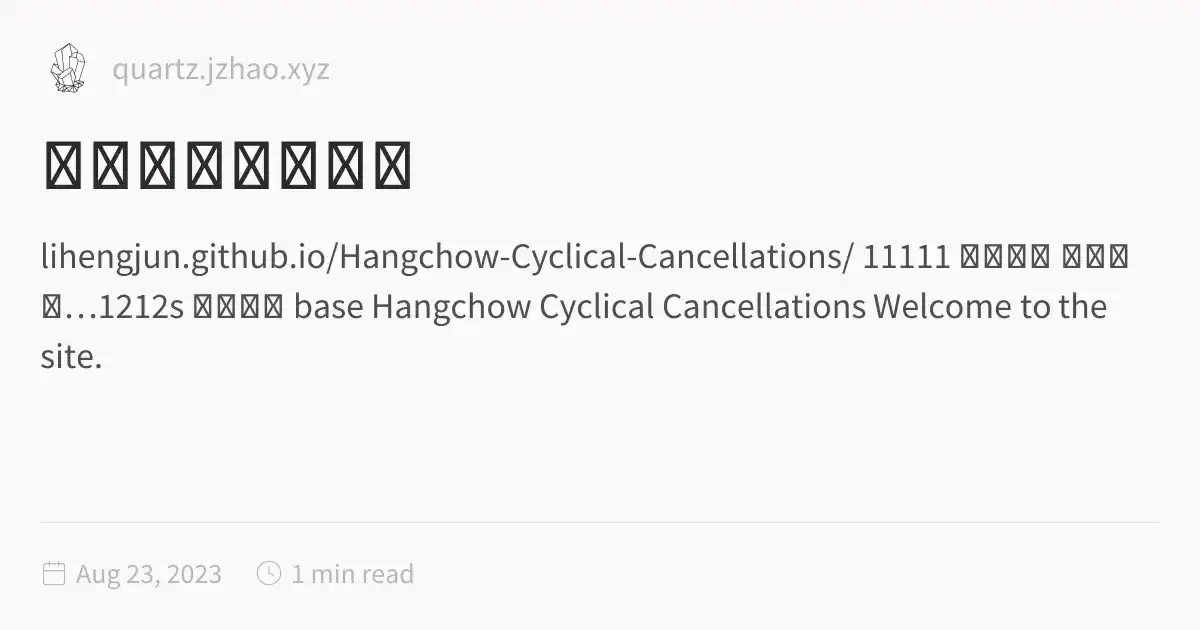
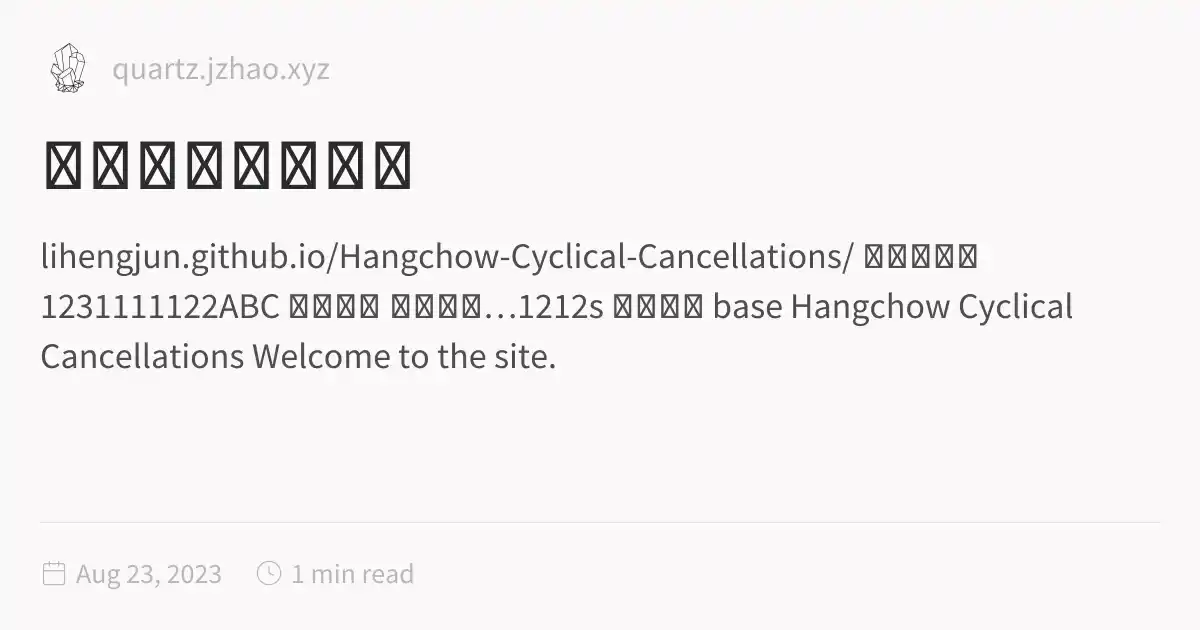
deploy: lihengjun/my-obsidian-vault@a4e582b4bd8cb34094732ee9f44acf03a8084b89

Changed region(s): [[0.0308, 0.4524, 0.925, 0.5127], [0.0308, 0.5429, 0.4625, 0.6032], [0.7092, 0.3619, 0.9558, 0.4222]]

diff --git a/news/index.html b/news/index.html
@@ -116,6 +116,6 @@ pre:hover > .expand-button {
   padding: 0 12px;
   font-size: 14px;
 }
[2 lines of base64/hex data omitted]
 </script><script type="module">function f(i,e){if(!i)return;function r(o){o.target===this&&(o.preventDefault(),o.stopPropagation(),e())}function t(o){o.key.startsWith("Esc")&&(o.preventDefault(),e())}i?.addEventListener("click",r),window.addCleanup(()=>i?.removeEventListener("click",r)),document.addEventListener("keydown",t),window.addCleanup(()=>document.removeEventListener("keydown",t))}function y(i){for(;i.firstChild;)i.removeChild(i.firstChild)}var h=class{constructor(e,r){this.container=e;this.content=r;this.setupEventListeners(),this.setupNavigationControls(),this.resetTransform()}isDragging=!1;startPan={x:0,y:0};currentPan={x:0,y:0};scale=1;MIN_SCALE=.5;MAX_SCALE=3;cleanups=[];setupEventListeners(){let e=this.onMouseDown.bind(this),r=this.onMouseMove.bind(this),t=this.onMouseUp.bind(this),o=this.resetTransform.bind(this);this.container.addEventListener("mousedown",e),document.addEventListener("mousemove",r),document.addEventListener("mouseup",t),window.addEventListener("resize",o),this.cleanups.push(()=>this.container.removeEventListener("mousedown",e),()=>document.removeEventListener("mousemove",r),()=>document.removeEventListener("mouseup",t),()=>window.removeEventListener("resize",o))}cleanup(){for(let e of this.cleanups)e()}setupNavigationControls(){let e=document.createElement("div");e.className="mermaid-controls";let r=this.createButton("+",()=>this.zoom(.1)),t=this.createButton("-",()=>this.zoom(-.1)),o=this.createButton("Reset",()=>this.resetTransform());e.appendChild(t),e.appendChild(o),e.appendChild(r),this.container.appendChild(e)}createButton(e,r){let t=document.createElement("button");return t.textContent=e,t.className="mermaid-control-button",t.addEventListener("click",r),window.addCleanup(()=>t.removeEventListener("click",r)),t}onMouseDown(e){e.button===0&&(this.isDragging=!0,this.startPan={x:e.clientX-this.currentPan.x,y:e.clientY-this.currentPan.y},this.container.style.cursor="grabbing")}onMouseMove(e){this.isDragging&&(e.preventDefault(),this.currentPan={x:e.clientX-this.startPan.x,y:e.clientY-this.startPan.y},this.updateTransform())}onMouseUp(){this.isDragging=!1,this.container.style.cursor="grab"}zoom(e){let r=Math.min(Math.max(this.scale+e,this.MIN_SCALE),this.MAX_SCALE),t=this.content.getBoundingClientRect(),o=t.width/2,n=t.height/2,c=r-this.scale;this.currentPan.x-=o*c,this.currentPan.y-=n*c,this.scale=r,this.updateTransform()}updateTransform(){this.content.style.transform=`translate(${this.currentPan.x}px, ${this.currentPan.y}px) scale(${this.scale})`}resetTransform(){this.scale=1;let e=this.content.querySelector("svg");this.currentPan={x:e.getBoundingClientRect().width/2,y:e.getBoundingClientRect().height/2},this.updateTransform()}},C=["--secondary","--tertiary","--gray","--light","--lightgray","--highlight","--dark","--darkgray","--codeFont"],E;document.addEventListener("nav",async()=>{let e=document.querySelector(".center").querySelectorAll("code.mermaid");if(e.length===0)return;E||=await import("https://cdnjs.cloudflare.com/ajax/libs/mermaid/11.4.0/mermaid.esm.min.mjs");let r=E.default,t=new WeakMap;for(let n of e)t.set(n,n.innerText);async function o(){for(let s of e){s.removeAttribute("data-processed");let a=t.get(s);a&&(s.innerHTML=a)}let n=C.reduce((s,a)=>(s[a]=window.getComputedStyle(document.documentElement).getPropertyValue(a),s),{}),c=document.documentElement.getAttribute("saved-theme")==="dark";r.initialize({startOnLoad:!1,securityLevel:"loose",theme:c?"dark":"base",themeVariables:{fontFamily:n["--codeFont"],primaryColor:n["--light"],primaryTextColor:n["--darkgray"],primaryBorderColor:n["--tertiary"],lineColor:n["--darkgray"],secondaryColor:n["--secondary"],tertiaryColor:n["--tertiary"],clusterBkg:n["--light"],edgeLabelBackground:n["--highlight"]}}),await r.run({nodes:e})}await o(),document.addEventListener("themechange",o),window.addCleanup(()=>document.removeEventListener("themechange",o));for(let n=0;n<e.length;n++){let v=function(){let g=l.querySelector("#mermaid-space"),m=l.querySelector(".mermaid-content");if(!m)return;y(m);let w=c.querySelector("svg").cloneNode(!0);m.appendChild(w),l.classList.add("active"),g.style.cursor="grab",u=new h(g,m)},M=function(){l.classList.remove("active"),u?.cleanup(),u=null},c=e[n],s=c.parentElement,a=s.querySelector(".clipboard-button"),d=s.querySelector(".expand-button"),p=window.getComputedStyle(a),L=a.offsetWidth+parseFloat(p.marginLeft||"0")+parseFloat(p.marginRight||"0");d.style.right=`calc(${L}px + 0.3rem)`,s.prepend(d);let l=s.querySelector("#mermaid-container");if(!l)return;let u=null;d.addEventListener("click",v),f(l,M),window.addCleanup(()=>{u?.cleanup(),d.removeEventListener("click",v)})}});
 </script><script src="https://cdn.jsdelivr.net/npm/katex@0.16.11/dist/contrib/copy-tex.min.js" type="application/javascript"></script><script src="../postscript.js" type="module"></script></html>

diff --git a/other.html b/other.html
@@ -116,7 +116,7 @@ pre:hover > .expand-button {
   padding: 0 12px;
   font-size: 14px;
 }
[2 lines of base64/hex data omitted]
                 s-3.542,0.634-4.898,1.688l-7.669-7.669C16.785,10.424,17,9.74,17,9c0-2.206-1.794-4-4-4S9,6.794,9,9s1.794,4,4,4
                 c0.74,0,1.424-0.215,2.019-0.567l7.669,7.669C21.634,21.458,21,23.154,21,25s0.634,3.542,1.688,4.897L10.024,42.562
                 C8.958,41.595,7.549,41,6,41c-3.309,0-6,2.691-6,6s2.691,6,6,6s6-2.691,6-6c0-1.035-0.263-2.009-0.726-2.86l12.829-12.829

diff --git a/index.html b/index.html
@@ -1,5 +1,5 @@
 <!DOCTYPE html>
-<html lang="en"><head><title>杭州城幹支戳蓃集</title><meta charset="utf-8"/><link rel="preconnect" href="https://fonts.googleapis.com"/><link rel="preconnect" href="https://fonts.gstatic.com"/><link rel="stylesheet" href="https://fonts.googleapis.com/css2?family=Schibsted Grotesk:wght@400;700&amp;family=Source Sans Pro:ital,wght@0,400;0,600;1,400;1,600&amp;family=IBM Plex Mono:wght@400;600&amp;display=swap"/><link rel="preconnect" href="https://cdnjs.cloudflare.com" crossorigin="anonymous"/><meta name="viewport" content="width=device-width, initial-scale=1.0"/><meta name="og:site_name" content="Quartz 4"/><meta property="og:title" content="杭州城幹支戳蓃集"/><meta property="og:type" content="website"/><meta name="twitter:card" content="summary_large_image"/><meta name="twitter:title" content="杭州城幹支戳蓃集"/><meta name="twitter:description" content="lihengjun.github.io/Hangchow-Cyclical-Cancellations/ 11111 内容标题 你的内容…1212s 编辑内容 base Hangchow Cyclical Cancellations Welcome to the site."/><meta property="og:description" content="lihengjun.github.io/Hangchow-Cyclical-Cancellations/ 11111 内容标题 你的内容…1212s 编辑内容 base Hangchow Cyclical Cancellations Welcome to the site."/><meta property="og:image:alt" content="lihengjun.github.io/Hangchow-Cyclical-Cancellations/ 11111 内容标题 你的内容…1212s 编辑内容 base Hangchow Cyclical Cancellations Welcome to the site."/><meta property="twitter:domain" content="quartz.jzhao.xyz"/><meta property="og:url" content="https://quartz.jzhao.xyz/index"/><meta property="twitter:url" content="https://quartz.jzhao.xyz/index"/><link rel="icon" href="./static/icon.png"/><meta name="description" content="lihengjun.github.io/Hangchow-Cyclical-Cancellations/ 11111 内容标题 你的内容…1212s 编辑内容 base Hangchow Cyclical Cancellations Welcome to the site."/><meta name="generator" content="Quartz"/><link href="./index.css" rel="stylesheet" type="text/css" spa-preserve/><style>.expand-button {
+<html lang="en"><head><title>杭州城幹支戳蓃集</title><meta charset="utf-8"/><link rel="preconnect" href="https://fonts.googleapis.com"/><link rel="preconnect" href="https://fonts.gstatic.com"/><link rel="stylesheet" href="https://fonts.googleapis.com/css2?family=Schibsted Grotesk:wght@400;700&amp;family=Source Sans Pro:ital,wght@0,400;0,600;1,400;1,600&amp;family=IBM Plex Mono:wght@400;600&amp;display=swap"/><link rel="preconnect" href="https://cdnjs.cloudflare.com" crossorigin="anonymous"/><meta name="viewport" content="width=device-width, initial-scale=1.0"/><meta name="og:site_name" content="Quartz 4"/><meta property="og:title" content="杭州城幹支戳蓃集"/><meta property="og:type" content="website"/><meta name="twitter:card" content="summary_large_image"/><meta name="twitter:title" content="杭州城幹支戳蓃集"/><meta name="twitter:description" content="lihengjun.github.io/Hangchow-Cyclical-Cancellations/ 天涯浮生录1231111122ABC 内容标题 你的内容…1212s 编辑内容 base Hangchow Cyclical Cancellations Welcome to the site."/><meta property="og:description" content="lihengjun.github.io/Hangchow-Cyclical-Cancellations/ 天涯浮生录1231111122ABC 内容标题 你的内容…1212s 编辑内容 base Hangchow Cyclical Cancellations Welcome to the site."/><meta property="og:image:alt" content="lihengjun.github.io/Hangchow-Cyclical-Cancellations/ 天涯浮生录1231111122ABC 内容标题 你的内容…1212s 编辑内容 base Hangchow Cyclical Cancellations Welcome to the site."/><meta property="twitter:domain" content="quartz.jzhao.xyz"/><meta property="og:url" content="https://quartz.jzhao.xyz/index"/><meta property="twitter:url" content="https://quartz.jzhao.xyz/index"/><link rel="icon" href="./static/icon.png"/><meta name="description" content="lihengjun.github.io/Hangchow-Cyclical-Cancellations/ 天涯浮生录1231111122ABC 内容标题 你的内容…1212s 编辑内容 base Hangchow Cyclical Cancellations Welcome to the site."/><meta name="generator" content="Quartz"/><link href="./index.css" rel="stylesheet" type="text/css" spa-preserve/><style>.expand-button {
   position: absolute;
   display: flex;
   float: right;
@@ -117,7 +117,7 @@ pre:hover > .expand-button {
   font-size: 14px;
 }
[1 lines of base64/hex data omitted]
-<p>11111</p>
+<p>天涯浮生录1231111122ABC</p>
 <h1 id="内容标题">内容标题<a role="anchor" aria-hidden="true" tabindex="-1" data-no-popover="true" href="#内容标题" class="internal"><svg width="18" height="18" viewBox="0 0 24 24" fill="none" stroke="currentColor" stroke-width="2" stroke-linecap="round" stroke-linejoin="round"><path d="M10 13a5 5 0 0 0 7.54.54l3-3a5 5 0 0 0-7.07-7.07l-1.72 1.71"></path><path d="M14 11a5 5 0 0 0-7.54-.54l-3 3a5 5 0 0 0 7.07 7.07l1.71-1.71"></path></svg></a></h1>
 <p>你的内容…1212s</p>
 <p>编辑内容</p>
